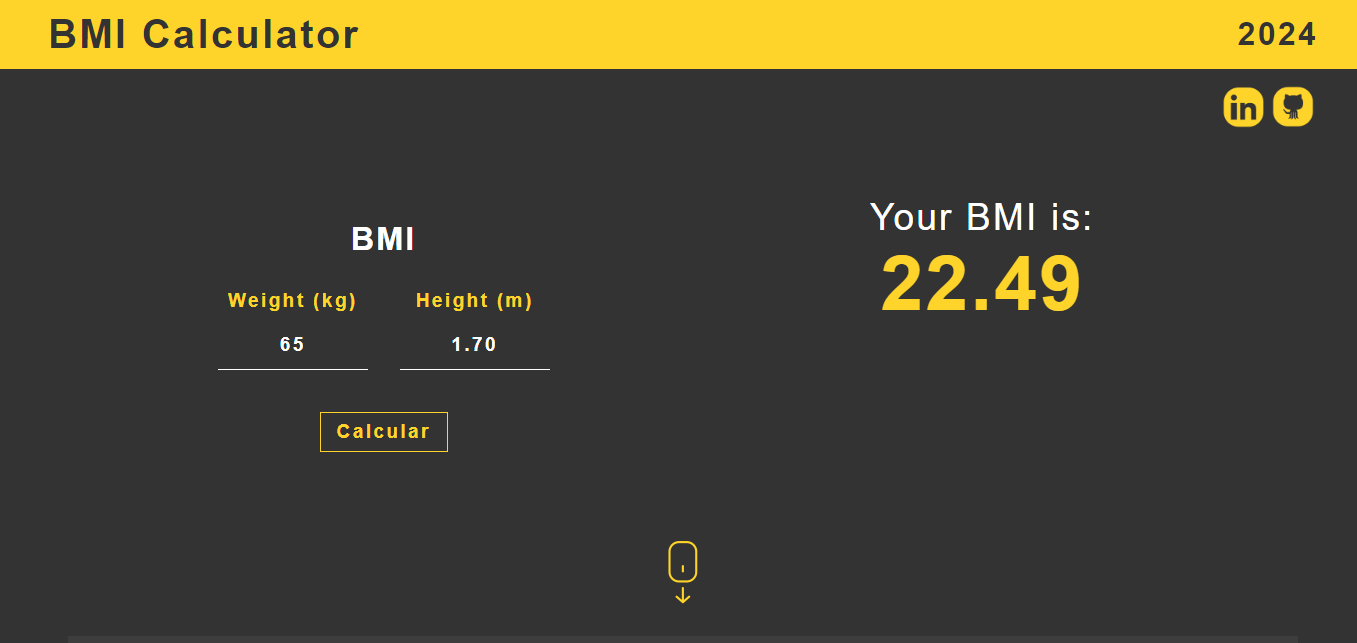
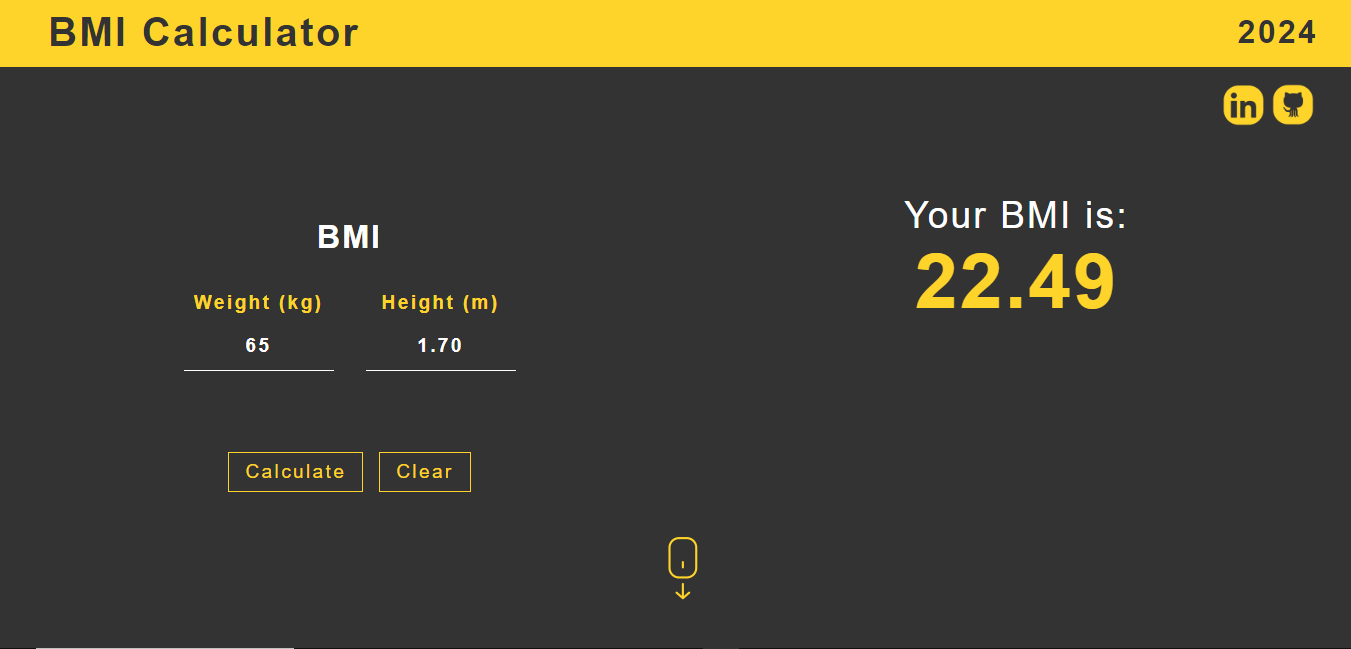
Atualização pages, components e criação do component Button.

diff --git a/src/pages/home/index.tsx b/src/pages/home/index.tsx
@@ -1,18 +1,25 @@
+import { useState } from "react";
 import Footer from "../../components/footer";
 import Header from "../../components/header";
 import Main from "../../components/main";
 import Nav from "../../components/nav";
 import Linkedin from '../../assets/imgs/linkedin.png';
 import Github from '../../assets/imgs/github.png';
-import { CalculateSection, Items, ResultSection, SectionImage } from "./style";
+import { 
+    Buttons, 
+    CalculateSection, 
+    Items, 
+    ResultSection, 
+    SectionImage 
+} from "./style";
 import Item from "../../components/item";
 import BMI from "../../components/bmi";
 import Form from "../../components/form";
 import Input from "../../components/input";
 import Label from "../../components/label";
-import { FormEvent, useState } from "react";
 import Image from "../../components/image";
 import Mouse from '../../assets/imgs/mouse.png';
+import Button from "../../components/button";
 
 const Home = () => {
     /**
@@ -23,16 +30,14 @@ const Home = () => {
     const [weight, setWeight] = useState('');
     const [total, setTotal] = useState('');
     const [result, setResult] = useState('');
-    const [mensage, setMesage] = useState('');
+    const [mensage, setMesage] = useState('');        
     /**
      * Realiza o cálculo do IMC (peso / ( altura x altura ) )
      * Testa os valores e exibe uma mensagem ao usuário.
      * Calculates BMI (weight / (height x height) )
-     * Tests the values and displays a message to the user.
-     * @param event
+     * Tests the values and displays a message to the user.  
      */    
-    const calculateBMI = (event:FormEvent): void => {
-        event.preventDefault();
+    const calculateBMI = (): void => {
         if(weight === '' || height === '') {
             setMesage("Fill in the fields to continue!");
             return;
@@ -40,6 +45,27 @@ const Home = () => {
         let total = Number(weight) / ( Number(height) * Number(height) )
         getBMI( total );
         setTotal( total.toFixed(2) );
+        /**
+         * Redireciona para a seção de resultado do IMC.
+         * Redirects to the BMI result section. 
+        */ 
+        window.location.assign("/#result");     
+    }
+    /**
+     * Limpar campos e redirecionar página
+     * Clear fields and redirect page
+     */
+    const clearFields = () => {
+        setWeight('');
+        setHeight('');
+        setTotal('');
+        setResult('');
+        setMesage('');
+        /**
+         * Redireciona para a rota principal.
+         * Redirects to the main route.  
+        */ 
+        window.location.replace('/');      
     }
     /**
      * Recupera o total e faz o teste, logo é exibido ao usuário o seu IMC.
@@ -117,23 +143,29 @@ const Home = () => {
                             </article>                            
                         </section>
                         <h6>{ (weight !== '' || height !== '') ? "" : mensage }</h6>
-                        <Input
-                            type="submit"
-                            value="Calcular"
-                        />                        
+                        <Buttons>                            
+                            <Button
+                                name="Calculate"
+                                onclick={() => calculateBMI()}
+                            />
+                            <Button
+                                name="Clear"
+                                onclick={() => clearFields()}
+                            />                            
+                        </Buttons>                                               
                     </Form>
                     <BMI
                         description="Your BMI is:"
                         value={total ? total : "0.00"}
-                    />
-                </CalculateSection>
-                <SectionImage>
-                    <Image
-                        src={Mouse}
-                        alt="Scroll the page"
-                    />
-                </SectionImage>
-                <ResultSection>
+                    />                    
+                    <SectionImage>                        
+                        <Image
+                            src={Mouse}
+                            alt="Scroll the page"
+                        />                        
+                    </SectionImage>
+                </CalculateSection>                
+                <ResultSection id="result">
                     <h2>Understand Your Result</h2>
                     <Items>
                         <Item

diff --git a/src/pages/home/style.tsx b/src/pages/home/style.tsx
@@ -1,8 +1,8 @@
 import styled from "styled-components";
 
 export const CalculateSection = styled.section`
-    width: 90%;
-    height: 60vh;
+    width: 100%;
+    height: 72vh;
     padding: 3rem 1rem;
     box-sizing: border-box;
     display: flex;
@@ -20,7 +20,7 @@ export const CalculateSection = styled.section`
 `
 
 export const ResultSection = styled.section`
-    width: 90%;
+    width: 100%;
     height: auto;
     padding: 3rem 1rem;
     margin: 2rem 0;
@@ -78,7 +78,7 @@ export const Items = styled.section`
 export const SectionImage = styled.section`
     width: 100%;
     height: auto;
-    padding: 0 3rem;
+    padding: 1rem 3rem;
     box-sizing: border-box;
     display: flex;
     justify-content: center;
@@ -87,5 +87,22 @@ export const SectionImage = styled.section`
     img {
         width: 4rem;
         height: auto;
+        position: relative;
+        bottom: 3rem;
     }
+
+    @media(max-width: 768px) {
+        img {
+            width: 4rem;
+            height: auto;
+            top: 0.25rem;
+        }
+    }
+`
+
+export const Buttons = styled.section`
+    width: auto;
+    height: auto;
+    display: flex;
+    gap: 1rem;
 `

diff --git a/src/components/form/style.tsx b/src/components/form/style.tsx
@@ -22,7 +22,8 @@ export const FormSection = styled.form`
         color: #FFF;
     }
 
-    input[type="submit"] {
+    input[type="submit"],
+    button[type="button"] {
         width: auto;
         height: auto;
         padding: 0.5rem 1rem;
@@ -31,10 +32,17 @@ export const FormSection = styled.form`
         border: 1px solid #ffd42a;
         color: #ffd42a;
         font-size: 1.2rem;
+        text-decoration: none;
         display: flex;
         flex-direction: column;
         align-items: center;
+        background-color: #333;
         cursor: pointer;
+    }    
+
+    button[type="button"]:focus {
+        border: 1px solid #ffd42a;
+        outline: 0 none;
     }
 
     section {

diff --git a/src/components/link/index.tsx b/src/components/link/index.tsx
@@ -1,8 +1,8 @@
 import { ILink } from "./ILink";
 
-const Link = ({ href, children }:ILink) => {
+const Link = ({ href, children, onclick }:ILink) => {
     return(
-        <a target="_blank" href={ href }>{ children }</a>
+        <a target="_blank" href={ href } onClick={onclick}>{ children }</a>
     );
 }
 

diff --git a/src/components/button/index.tsx b/src/components/button/index.tsx
@@ -1,0 +1,9 @@
+import { Ibutton } from "./Ibutton";
+
+const Button = ({ name, onclick }:Ibutton) => {
+    return(
+        <button type="button" onClick={ onclick }>{ name }</button>
+    );
+}
+
+export default Button;

diff --git a/src/components/link/ILink.ts b/src/components/link/ILink.ts
@@ -2,5 +2,6 @@ import { ReactNode } from "react";
 
 export interface ILink {
     href?:string;
+    onclick?:() => void;
     children?:ReactNode;
 }

diff --git a/src/components/button/Ibutton.ts b/src/components/button/Ibutton.ts
@@ -1,0 +1,4 @@
+export interface Ibutton {
+    onclick?:() => void;
+    name?:string;
+}
